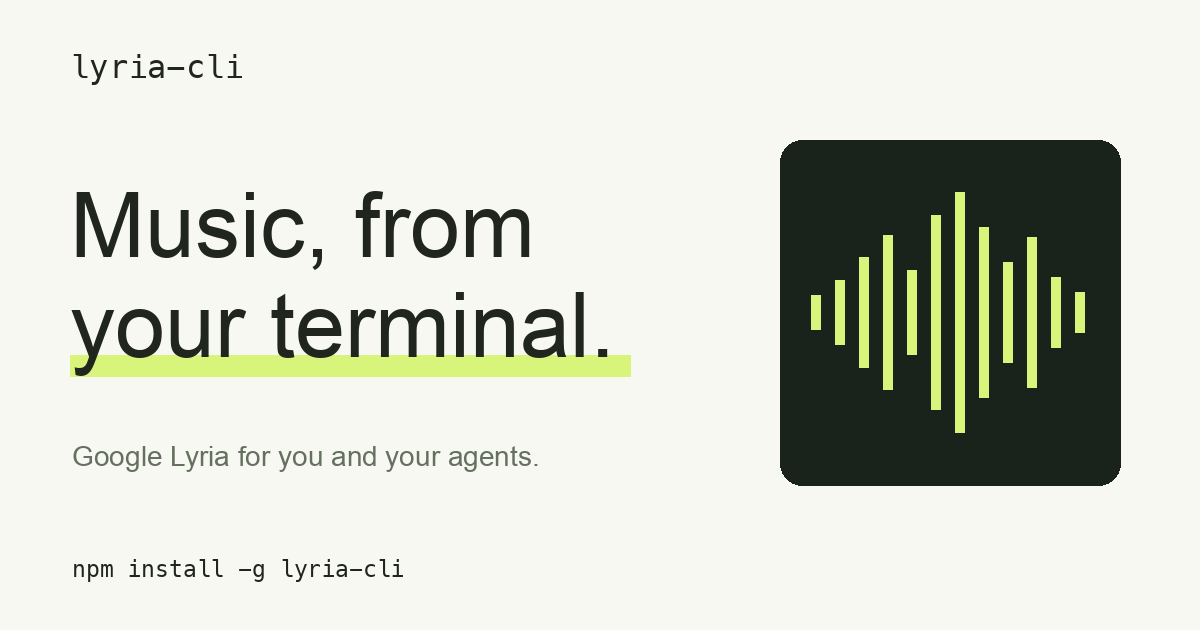
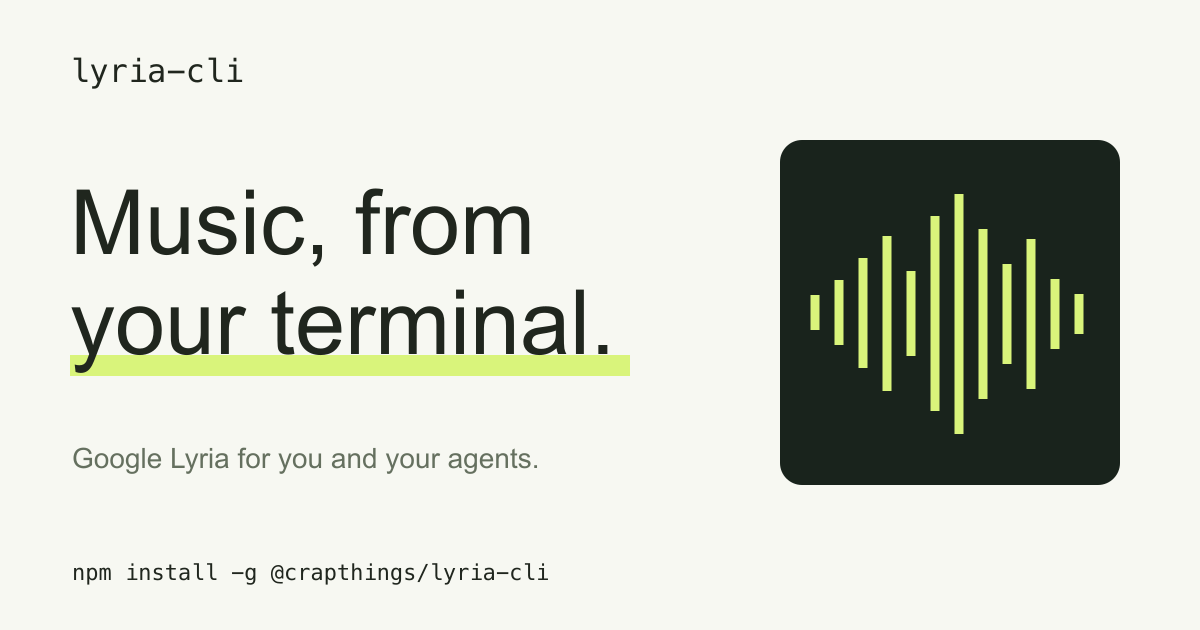
fix: publish under the crapthings npm scope

diff --git a/website/index.html b/website/index.html
@@ -4,7 +4,7 @@
   <meta charset="utf-8">
   <meta name="viewport" content="width=device-width, initial-scale=1">
   <title>lyria-cli — Generate AI music from your terminal</title>
-  <meta name="description" content="Generate music and songs with Google Lyria from your terminal. Install lyria-cli with npm, create MP3 audio, and give AI agents a ready-to-use music skill.">
+  <meta name="description" content="Generate music and songs with Google Lyria from your terminal. Install @crapthings/lyria-cli with npm, create MP3 audio, and give AI agents a ready-to-use music skill.">
   <meta name="theme-color" content="#f7f8f2">
   <meta property="og:title" content="lyria-cli — Music, from your terminal.">
   <meta property="og:description" content="A simple command line for Google Lyria. Turn text into music, save the MP3, and pass structured results to your agent.">
@@ -51,7 +51,7 @@
       <div class="section-heading"><div><p class="eyebrow">01 / GET STARTED</p><h2 id="quickstart-title">From install to first track.</h2></div><p>Three steps. Your own API key.<br>No account with us required.</p></div>
       <p class="release-note">Pre-release: npm installation commands become available after the first package release.</p>
       <div class="steps">
-        <article class="step"><span class="step-number">01</span><h3>Install the CLI</h3><p>Use npm with Node.js 22 or later.</p><div class="codebox"><pre id="install-command"><code>npm install -g lyria-cli</code></pre><button class="copy" type="button" data-copy="install-command" aria-label="Copy npm installation command" hidden>Copy</button></div></article>
+        <article class="step"><span class="step-number">01</span><h3>Install the CLI</h3><p>Use npm with Node.js 22 or later.</p><div class="codebox"><pre id="install-command"><code>npm install -g @crapthings/lyria-cli</code></pre><button class="copy" type="button" data-copy="install-command" aria-label="Copy npm installation command" hidden>Copy</button></div></article>
         <article class="step"><span class="step-number">02</span><h3>Add your API key</h3><p>Get a key from <a href="https://aistudio.google.com/apikey">Google AI Studio ↗</a>.</p><div class="codebox"><pre id="key-command"><code>export GEMINI_API_KEY='your-key'</code></pre><button class="copy" type="button" data-copy="key-command" aria-label="Copy API key configuration example" hidden>Copy</button></div></article>
         <article class="step"><span class="step-number">03</span><h3>Make something</h3><p>Describe your sound and save an MP3.</p><div class="codebox"><pre id="first-command"><code>lyria-cli generate \
   --prompt 'Dreamy piano, no vocals' \
@@ -79,10 +79,10 @@
       </div>
     </div></section>
     <section class="section wrap" id="agents" aria-labelledby="agents-title">
-      <div class="agent-banner"><div class="agent-copy"><p class="eyebrow">03 / MADE FOR AGENTS, TOO</p><h2 id="agents-title">Give your agent<br>a musical skill.</h2><p>The bundled <code>lyria-music</code> skill covers prompt writing, CLI calls, and result handling. Install the package locally, then add the skill to your agent.</p><a class="text-link" href="./skills/lyria-music/SKILL.md">Read the skill <span aria-hidden="true">↗</span></a></div><div class="agent-install"><p class="tiny-label">INSTALL IN YOUR PROJECT</p><div class="codebox dark-code"><pre id="skill-command"><code>npm install lyria-cli
+      <div class="agent-banner"><div class="agent-copy"><p class="eyebrow">03 / MADE FOR AGENTS, TOO</p><h2 id="agents-title">Give your agent<br>a musical skill.</h2><p>The bundled <code>lyria-music</code> skill covers prompt writing, CLI calls, and result handling. Install the package locally, then add the skill to your agent.</p><a class="text-link" href="./skills/lyria-music/SKILL.md">Read the skill <span aria-hidden="true">↗</span></a></div><div class="agent-install"><p class="tiny-label">INSTALL IN YOUR PROJECT</p><div class="codebox dark-code"><pre id="skill-command"><code>npm install @crapthings/lyria-cli
 
 npx skills add \
-  ./node_modules/lyria-cli/skills/lyria-music</code></pre><button class="copy" type="button" data-copy="skill-command" aria-label="Copy project and skill installation commands" hidden>Copy</button></div><p class="agent-note">The skill travels with the npm package.<br>CLI installation and API credentials are still required.</p></div></div>
+  ./node_modules/@crapthings/lyria-cli/skills/lyria-music</code></pre><button class="copy" type="button" data-copy="skill-command" aria-label="Copy project and skill installation commands" hidden>Copy</button></div><p class="agent-note">The skill travels with the npm package.<br>CLI installation and API credentials are still required.</p></div></div>
       <div class="agent-features"><div><span class="feature-mark" aria-hidden="true">{ }</span><h3>Predictable output</h3><p>JSON on stdout, progress on stderr, and clear exit codes for automation.</p></div><div><span class="feature-mark" aria-hidden="true">↳</span><h3>One request at a time</h3><p>No automatic generation retries. Set a timeout and control the next step yourself.</p></div><div><span class="feature-mark" aria-hidden="true">✓</span><h3>Saved to your workspace</h3><p>Complete MP3 files, saved locally. Existing files are protected by default.</p></div></div>
     </section>
     <section class="faq wrap" aria-labelledby="faq-title"><div><p class="eyebrow">A FEW DETAILS</p><h2 id="faq-title">Before you press enter.</h2></div><div class="faq-items">

diff --git a/README.md b/README.md
@@ -9,7 +9,7 @@ Generate music with Google Lyria from your terminal or an AI agent. Text in, MP3
 Requires Node.js 22+ and a [Gemini API key](https://aistudio.google.com/apikey). After the first npm release:
 
 ```sh
-npm install -g lyria-cli
+npm install -g @crapthings/lyria-cli
 export GEMINI_API_KEY='your-api-key'
 
 lyria-cli generate \
@@ -18,14 +18,14 @@ lyria-cli generate \
   --json
 ```
 
-Use `--prompt-file ./song.txt` for lyrics or long prompts. Run `lyria-cli --help` for all options. Default model: `lyria-3.5`.
+The npm package is `@crapthings/lyria-cli`; the executable is `lyria-cli`. Use `--prompt-file ./song.txt` for lyrics or long prompts. Run `lyria-cli --help` for all options. Default model: `lyria-3.5`.
 
 ## Agent skill
 
-The npm package includes [lyria-music](skills/lyria-music/SKILL.md). After a project-local `npm install lyria-cli`, register it with your agent:
+The npm package includes [lyria-music](skills/lyria-music/SKILL.md). After a project-local `npm install @crapthings/lyria-cli`, register it with your agent:
 
 ```sh
-npx skills add ./node_modules/lyria-cli/skills/lyria-music
+npx skills add ./node_modules/@crapthings/lyria-cli/skills/lyria-music
 ```
 
 From this checkout, use `npx skills add ./skills/lyria-music`. You can also install from GitHub with `npx skills add crapthings/lyria-cli --skill lyria-music`. Installing the skill does not install the CLI or API credentials.

diff --git a/docs/development.md b/docs/development.md
@@ -31,7 +31,7 @@ The SDK version is pinned because retry and error behavior are part of this CLI'
 
 ## Release
 
-Log in to npm once with `npm login`, then commit your changes before a real release.
+The public npm package is `@crapthings/lyria-cli`, under the `crapthings` account; the installed executable remains `lyria-cli`. Log in to npm as an account with access to that scope using `npm login`, then commit your changes before a real release. Version lookup uses this scoped package only.
 
 ```sh
 npm run release -- --dry-run  # Validate the next version without publishing
@@ -73,3 +73,9 @@ The GitHub Actions workflow reads the public URL from `actions/configure-pages` 
 To configure hosting, select **Settings → Pages → Build and deployment → Source → GitHub Actions**. The workflow deploys pushes to the default branch, and supports manual dispatch. The repository is [crapthings/lyria-cli](https://github.com/crapthings/lyria-cli), and the site URL is https://crapthings.github.io/lyria-cli/.
 
 The website uses no analytics, remote fonts, or API keys. Copy controls are optional enhancements; installation and usage text remains visible without JavaScript.
+
+The social preview has an editable SVG source. To regenerate its PNG with librsvg installed:
+
+```sh
+rsvg-convert website/assets/social.svg -o website/assets/social.png
+```

diff --git a/skills/lyria-music/SKILL.md b/skills/lyria-music/SKILL.md
@@ -30,7 +30,7 @@ Use the available installation:
 - Global installation: `lyria-cli` on `PATH`.
 - Source checkout: `node dist/cli.js` from the CLI repository root after building.
 
-The skill may be installed separately from the executable. If the CLI is absent, explain that it needs to be installed; do not assume the skill folder contains a built executable. Once the package is published, `npm install lyria-cli` installs the project dependency. Use `--help` to check the installed command's options.
+The skill may be installed separately from the executable. If the CLI is absent, explain that it needs to be installed; do not assume the skill folder contains a built executable. Once the package is published, `npm install @crapthings/lyria-cli` installs the project dependency. Use `--help` to check the installed command's options.
 
 Check that `GEMINI_API_KEY` is nonempty in the invoking environment without printing its value. A variable assigned in `.zshrc` may not be exported or loaded in an agent shell. The CLI does not automatically load `.env` files. Resolve missing credentials before requesting generation; never embed the key in a command argument or prompt.
 
